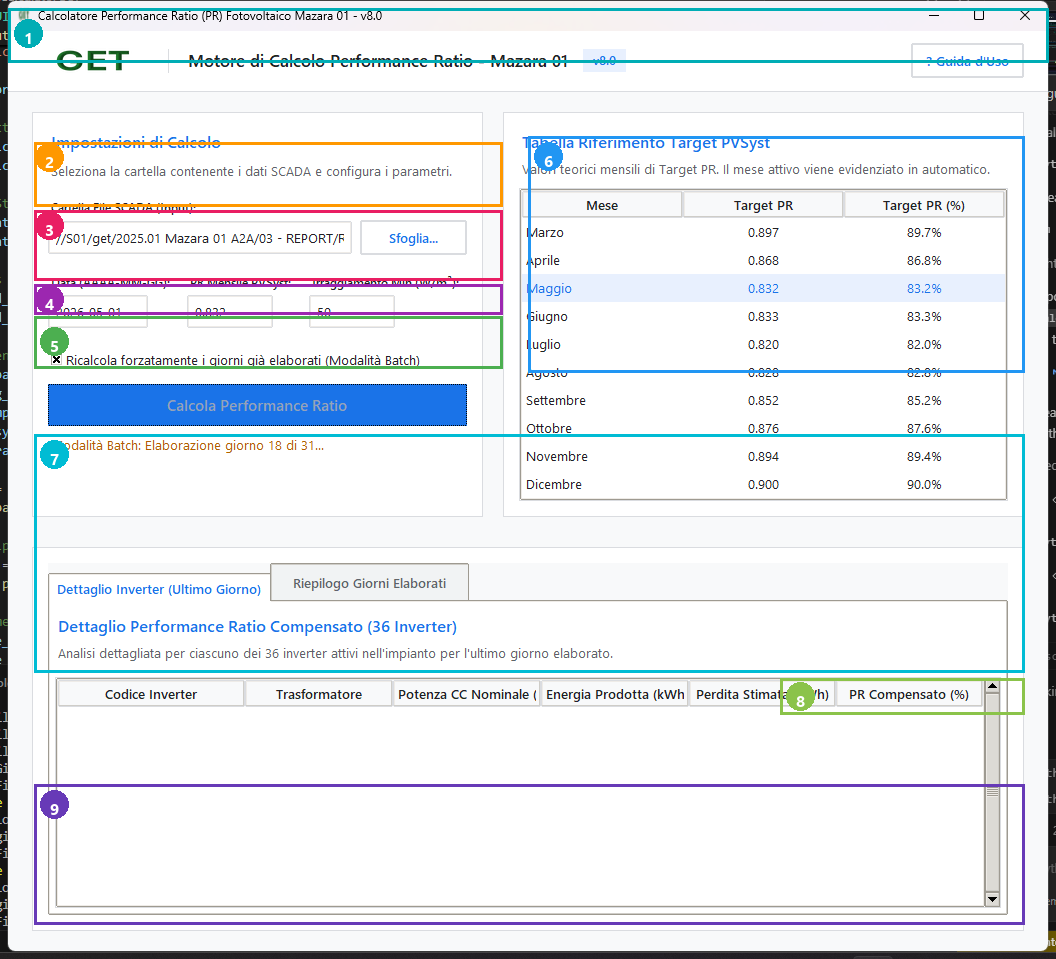
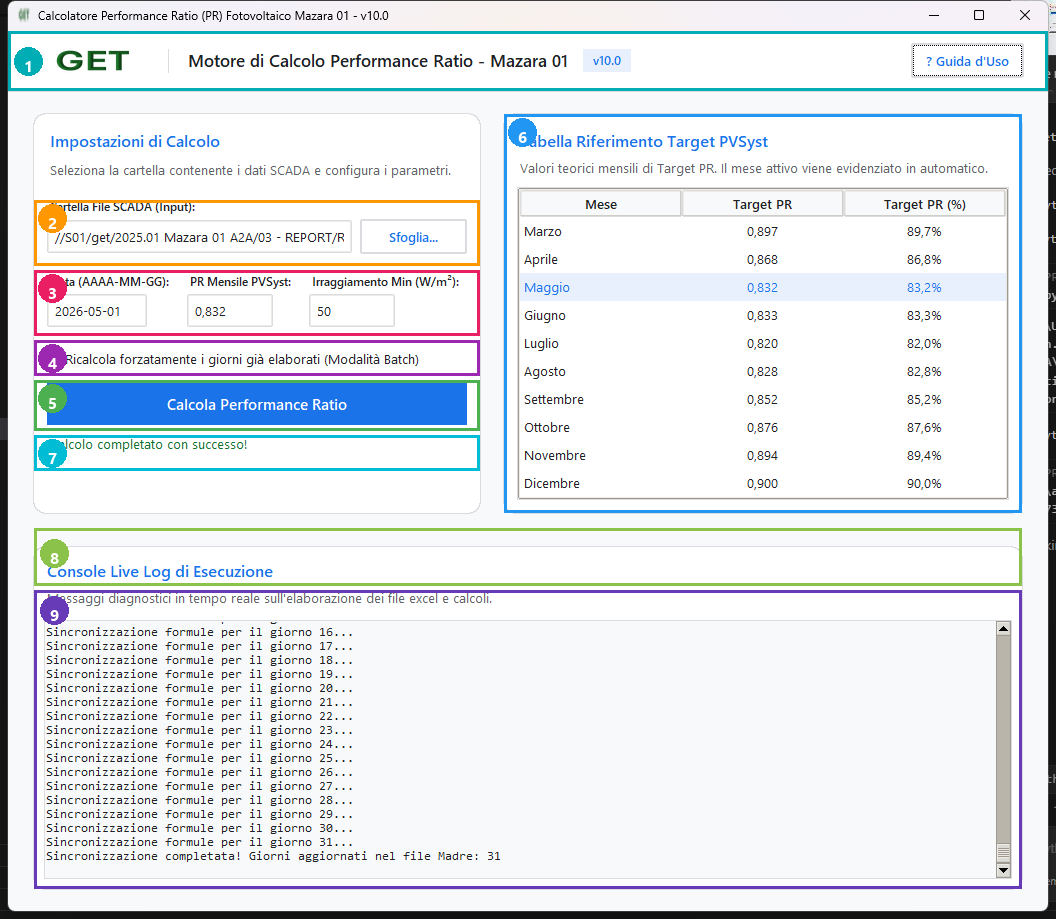
Update manuals, README and gui annotated guide for version 10

Changed region(s): [[0.0, 0.0, 1.0, 1.0]]

diff --git a/README.md b/README.md
@@ -1,4 +1,4 @@
-# PV Plant Performance Ratio (PR) Calculator - Mazara 01 (v7.0)
+# PV Plant Performance Ratio (PR) Calculator - Mazara 01 (v10.0)
 
 A professional, high-performance Python-based tool designed for the **GET S.R.L.** Mazara 01 photovoltaic plant. This application automates the calculation of the Performance Ratio (PR), providing both raw and compensated metrics by processing SCADA data and weather station logs.
 
@@ -10,10 +10,12 @@ A professional, high-performance Python-based tool designed for the **GET S.R.L.
 - **Compensated PR Analysis**: Intelligent logic to account for:
     - **Curtailment Losses**: Energy lost due to grid-imposed power limits.
     - **Downtime Losses**: Energy lost during inverter or transformer outages.
+- **PR Compensated Formula Integration (v10.0)**: Writes the live PR Compensated mathematical formula directly into Excel daily child files (`BH11`) and automatically links it to the Mother file.
+- **Italian Decimal formatting**: Handles commas for decimal entry and display in GUI while preserving proper float numbers during Excel generation.
 - **Batch Processing Mode**: Processes a month's data in a single run, utilizing a high-speed single-pass sync that minimizes Excel startup overhead.
 - **Excel Automation via ActiveX**: Utilizes Excel COM for seamless report generation, avoiding `openpyxl` table corruption and ensuring that complex formulas and styles remain uncorrupted.
 - **Mother-Child File Syncing (Self-Healing)**: Automatically scans and links monthly "Mother" files with data from daily "Child" recalculation files via dynamic Excel formulas. If the file is locked, it reports descriptive errors to the user instead of failing silently.
-- **Direct Loss Write (v7.0)**: Python-computed per-inverter energy losses are written directly to the Excel loss columns (O–Z for TX1, AB–AM for TX2, AO–AZ for TX3), bypassing Excel formula dependency and guaranteeing correctness independent of any cell parameter.
+- **Direct Loss Write (v7.0+)**: Python-computed per-inverter energy losses are written directly to the Excel loss columns (O–Z for TX1, AB–AM for TX2, AO–AZ for TX3), bypassing Excel formula dependency.
 - **Obsidian Dark Mode Interface**: A premium, luxury-themed GUI built with Tkinter, featuring real-time logging, interactive controls, and performance metrics.
 
 ## Prerequisites
@@ -35,7 +37,7 @@ pip install pandas numpy openpyxl pywin32 Pillow
 2. **Template Configuration**:
    Ensure the `original_format/` directory contains the required Excel templates:
    - `00 PR_recalculation_*.xlsx` (Monthly Mother file)
-   - `PR_recalculation_26_apr.xlsx` (Pristine daily template - *Version 7.0 aligned*)
+   - `PR_recalculation_26_apr.xlsx` (Pristine daily template - *Version 10.0 aligned*)
 
 3. **Assets**:
    Place company logos in the `assets/` folder (`logo.png`, `logo.ico`).
@@ -45,11 +47,11 @@ pip install pandas numpy openpyxl pywin32 Pillow
 1. **Launch the Application**:
    Run the GUI using Python:
    ```bash
-   python PR_Calculator_GUI_v7.py
+   python PR_Calculator_GUI_v10.py
    ```
    Or run the compiled executable:
    ```bash
-   "PR Calculator v7.exe"
+   "PR Calculator v10.exe"
    ```
 
 2. **Single Day Processing**:
@@ -64,7 +66,7 @@ pip install pandas numpy openpyxl pywin32 Pillow
 
 ---
 
-## 📊 Excel Templates & Formatting Requirements (v6.0)
+## 📊 Excel Templates & Formatting Requirements (v10.0)
 
 The tool automates calculations by reading from and writing to specific sheets, columns, and cells within two template types. Below are the formatting requirements to ensure compatibility:
 
@@ -104,6 +106,8 @@ Must contain at least two worksheets with the following exact names and structur
         *   `BH8`: **PR from SCADA (Uncompensated PR % written from GUI, e.g., `37.529`)**
         *   `BH9`: Irradiance acceptance limit ratio (`=+BA6*100`)
         *   `BH10`: Minimum Irradiance threshold (`=+BA7`)
+        *   `BH11`: **PR Compensated [%] (Active Excel formula written from GUI)**:
+            `=((SUM(Inverter_data!C15:N110, Inverter_data!R15:AC110, Inverter_data!AG15:AR110)*0.25 + AA111 + AN111 + BA111) / (12625 * (SUM($H$15:$H$110)*0.25/1000))) * 100`
 
 *   **`Inverter_data` Sheet**:
     *   **Rows 15 to 110**:
@@ -115,23 +119,37 @@ Must contain at least two worksheets with the following exact names and structur
 ### 2. Monthly "Mother" Workbook (`00 PR_recalculation_*.xlsx`)
 Must contain a **`PR_Calc`** sheet structured as follows:
 *   **Column `A`**: Date sequence for the entire month (Rows 5 to `5 + num_days - 1`).
-*   **Columns `D` to `AR` (Rows 5 to `5 + num_days - 1`)**: Auto-linked formulas referencing the corresponding child workbook:
-    *   Column `D` (PR Daily): `='[ChildPath]PR_Calc'!$BA$5*100` (or `='[ChildPath]PR_Calc'!$BH$6`)
-    *   Column `E` (PR SCADA): **`='[ChildPath]PR_Calc'!$BH$8`** (Linked to daily SCADA PR in Column BH)
-    *   Column `F`, `G`, `H` (Energy Loss): Linked to daily file cells `$AA$111`, `$AN$111`, `$BA$111` respectively.
-    *   Columns `I` to `T` (TX1 Inverters): Linked to child file row 111, columns `O` to `Z` (`O$111` to `Z$111`).
-    *   Columns `U` to `AF` (TX2 Inverters): Linked to child file row 111, columns `AB` to `AM` (`AB$111` to `AM$111`).
-    *   Columns `AG` to `AR` (TX3 Inverters): Linked to child file row 111, columns `AO` to `AZ` (`AO$111` to `AZ$111`).
-*   **Summary Row**: Dynamically positioned at Row `5 + num_days` containing the `=AVERAGE(D5:D{last_day_row})` formula in columns `D` and `E`.
+*   **Columns `B` to `M` (Day Rows)**: Auto-linked formulas referencing the corresponding child workbook:
+    *   Column `B` (Irradiance TX1): `='[ChildPath]PR_Calc'!$D$111`
+    *   Column `C` (Irradiance TX3): `='[ChildPath]PR_Calc'!$F$111`
+    *   Column `D` (Irradiance [kWh/m2]): `='[ChildPath]PR_Calc'!$I$111`
+    *   Column `E` (Energy [kWh]): `='[ChildPath]PR_Calc'!$M$111`
+    *   Column `F` (PR Target [%]): `='[ChildPath]PR_Calc'!$BH$5`
+    *   Column `G` (PR Total [%]): `='[ChildPath]PR_Calc'!$BH$6` (or `='[ChildPath]PR_Calc'!$BA$5*100`)
+    *   Column `H` (PR VCOM [%]): `='[ChildPath]PR_Calc'!$BH$8`
+    *   Column `I` (PR Compensated [%]): **`='[ChildPath]PR_Calc'!$BH$11`**
+    *   Column `J` (External Availability [%]): `=IF(E{r}="",0,(E{r}/(E{r}+K{r}+L{r}+M{r}))*100)`
+    *   Column `K` (TX1 Energy Loss): `='[ChildPath]PR_Calc'!$AA$111`
+    *   Column `L` (TX2 Energy Loss): `='[ChildPath]PR_Calc'!$AN$111`
+    *   Column `M` (TX3 Energy Loss): `='[ChildPath]PR_Calc'!$BA$111`
+*   **Inverter Columns (Columns N to AW)**: Linked to corresponding child row 111 per-inverter calculated PR.
+*   **Summary Row**: Dynamically positioned at Row `5 + num_days` containing appropriate sums and averages.
 
 ---
 
 ## Changelog
 
+### v10.0
+- **New Feature**: Added `PR Compensated` calculation using active formula written to daily cell `BH11`.
+- **New Feature**: Linked daily `BH11` to Column I (`PR Compensated`) of the Mother file.
+- **New Feature**: Added automatic insertion of `External Availability [%]` in Column J of the Mother file.
+- **UI Update**: Decimal separator in GUI inputs changed to comma (Italian locale rules) while preserving native Excel numeric formats.
+- **Bug fix**: Resolved OLE/COM Excel list separator formatting errors under Italian locale for cell range formatting.
+
 ### v7.0
-- **Bug fix**: Energy loss values (TX1/TX2/TX3) were reported 100× too small in all Excel output files. Root cause: the PVSyst PR parameter written to cell `BA4` was divided by 100 twice (`pvsyst_pr / 100.0` when the value is already stored as a decimal, e.g. `0.897`). Every Excel loss formula uses `$BA$4`, so all reported losses were off by a factor of 100 (e.g. 181 kWh shown instead of ~18,091 kWh on a curtailed day).
+- **Bug fix**: Energy loss values (TX1/TX2/TX3) were reported 100× too small in all Excel output files. Root cause: the PVSyst PR parameter written to cell `BA4` was divided by 100 twice (`pvsyst_pr / 100.0` when the value is already stored as a decimal, e.g. `0.897`).
 - **Fix**: `BA4` is now written as `float(pvsyst_pr)` directly.
-- **Fix**: Python-computed per-inverter energy losses are written directly to the PR_Calc sheet (columns O–Z for TX1, AB–AM for TX2, AO–AZ for TX3) as plain values, removing the dependency on Excel formula recalculation and the `BA4` parameter for those cells.
+- **Fix**: Python-computed per-inverter energy losses are written directly to the PR_Calc sheet (columns O–Z for TX1, AB–AM for TX2, AO–AZ for TX3) as plain values.
 
 ---
 
@@ -140,10 +158,10 @@ Must contain a **`PR_Calc`** sheet structured as follows:
 To bundle the application into a standalone Windows executable:
 
 ```powershell
-python scratch/build_exe.py
+pyinstaller --noconfirm "\\S01\get\2025.01 Mazara 01 A2A\03 - REPORT\Report\09 Testing\PR Calculation automation\PR Calculator v10.spec"
 ```
 
-This script will verify your PyInstaller installation, build the executable using **`PR Calculator v7.spec`**, and copy the standalone **`PR Calculator v7.exe`** to the main folder.
+This will produce the compiled standalone **`PR Calculator v10.exe`** under the main folder.
 
 ---
 

diff --git a/Manuale_Utente_PR_Calculator.md b/Manuale_Utente_PR_Calculator.md
@@ -61,27 +61,47 @@ Mostra la tabella dei Target PR previsti da PVSyst per ciascun mese dell'anno. Q
 
 ---
 
-## 📑 Tabella di Dettaglio dei 36 Inverter (Area 7)
+## 🚦 Stato dell'Elaborazione (Area 7)
 
-Questa tabella interattiva espone il comportamento di ogni singolo inverter (da `TX1-INV-1` a `TX3-INV-12`):
-- **Codice Inverter:** Identificativo specifico della macchina.
-- **Trasformatore:** Trasformatore associato (TX1, TX2 o TX3).
-- **Potenza CC Nominale (kW):** La potenza nominale di targa dell'inverter (328.125, 343.75 o 359.375 kW).
-- **Energia Prodotta (kWh):** L'energia reale prodotta dall'inverter nella giornata in esame.
-- **Perdita Stimata (kWh):** La stima dell'energia perduta per indisponibilità della rete o regolazione attiva.
-- **PR Compensato (%):** Il Performance Ratio specifico della singola macchina.
+- **Descrizione:** Mostra i messaggi di progresso e l'esito finale dell'elaborazione (es. *"Calcolo completato con successo!"* o messaggi di errore) in corrispondenza del pulsante principale di calcolo.
 
 ---
 
-## 💾 Esportazione dei Dati (Area 8)
+## 📑 Titolo e Intestazione Console (Area 8)
 
-- **Pulsante [ Esporta Dati Completi su Excel... ]**: Genera un report Excel autonomo multi-foglio contenente il riassunto esecutivo, l'elenco dei 36 inverter e tutti i 96 quarti d'ora della giornata con ogni singola variabile calcolata.
+- **Descrizione:** Intestazione della sezione diagnostica con titolo *"Console Live Log di Esecuzione"* e indicazioni sui messaggi diagnostici in tempo reale relativi all'elaborazione dei file Excel e del motore di calcolo.
 
 ---
 
-## 📜 Console di Log in Tempo Reale (Area 9)
+## 📜 Console Live Log in Tempo Reale (Area 9)
 
-- **Console Live Log:** Visualizza lo stato di avanzamento delle operazioni, l'apertura dei file Excel in memoria, la tabella riassuntiva dei PR giornalieri elaborati in modalità batch e la notifica di eventuali anomalie.
+- **Console Live Log:** La finestra di testo che visualizza i log operativi riga per riga (notifiche di avanzamento, caricamenti di file SCADA, ricalcoli batch dei giorni e scrittura sul file Madre).
+
+---
+
+## 📑 Dettaglio e Calcolo Excel (Generato Automaticamente)
+
+Anche se non visualizzati direttamente nell'interfaccia principale della v10, il software genera e popola automaticamente:
+- **Dettagli dei 36 Inverter:** Codice inverter, trasformatore (TX1/2/3), potenza nominale, energia prodotta, perdite stimate e PR Compensato scritti direttamente nelle schede del file Excel.
+- **Formule Attive nel Foglio Giornaliero:** Formula per il PR Compensato (cella `BH11`) e per le perdite per trasformatore (riga 111).
+
+---
+
+## 🧮 Formula di Dettaglio del PR Compensato (v10.0)
+
+A partire dalla versione 10.0, il software scrive nel foglio `PR_Calc` (cella `BH11`) del file giornaliero la formula attiva per il calcolo del **PR Compensato**:
+
+$$\text{PR Compensato} = \left( \frac{\text{Energia Inverter Total} + \text{Loss TX1} + \text{Loss TX2} + \text{Loss TX3}}{\text{Irradiance Sum} \times \text{Plant CC Power}} \right) \times 100$$
+
+Nello specifico, la formula Excel inserita è:
+`=((SUM(Inverter_data!C15:N110, Inverter_data!R15:AC110, Inverter_data!AG15:AR110)*0.25 + AA111 + AN111 + BA111) / (12625 * (SUM($H$15:$H$110)*0.25/1000))) * 100`
+
+Questa formula viene poi sincronizzata nel file **Madre** mensile:
+* **Colonna H (PR VCOM / PR Total)**: Collegato alla cella `$BA$5*100` (PR Raw).
+* **Colonna I (PR Compensated)**: Collegato alla cella `$BH$11` (PR Compensato).
+* **Colonna J (External Availability %)**: Calcolata tramite formula `=IF(E{r}="",0,(E{r}/(E{r}+K{r}+L{r}+M{r}))*100)`.
+* **Colonne K, L, M (TX1, TX2, TX3 Energy Loss)**: Collegate alle celle `$AA$111`, `$AN$111`, `$BA$111` dei file giornalieri.
+
 
 ---
 
@@ -89,5 +109,7 @@ Questa tabella interattiva espone il comportamento di ogni singolo inverter (da 
 
 > [!WARNING]
 > - **Errore "File Not Found":** Verifica che nella cartella selezionata siano presenti tutti e 7 i file SCADA richiesti (`TS_01_Inverter`, `SATAC_Meter`, ecc.).
+> - **Formato Numerico Italiano:** Nella GUI i numeri decimali vengono inseriti e visualizzati usando la virgola (es. `0,897` o `50,0`), in conformità con i requisiti locali. Il software converte automaticamente i valori in formato corretto per l'esportazione su Excel.
 > - **Errore "#DIV/0!" nei file generati:** È stato eliminato grazie alla funzione `IFERROR`. Se apri un file grezzo e vedi divisioni per zero nelle ore notturne, avvia il calcolo tramite questo software per ripristinare le formule corrette.
-> - **Blocco di Rete SMB / Errore OLE:** Il software gestisce automaticamente i percorsi di rete UNC convertendo gli slash in backslash (`\`).
+> - **Blocco di Rete SMB / Errore OLE:** Il software gestisce automaticamente i percorsi di rete UNC condivisi convertendo gli slash in backslash (`\`).
+